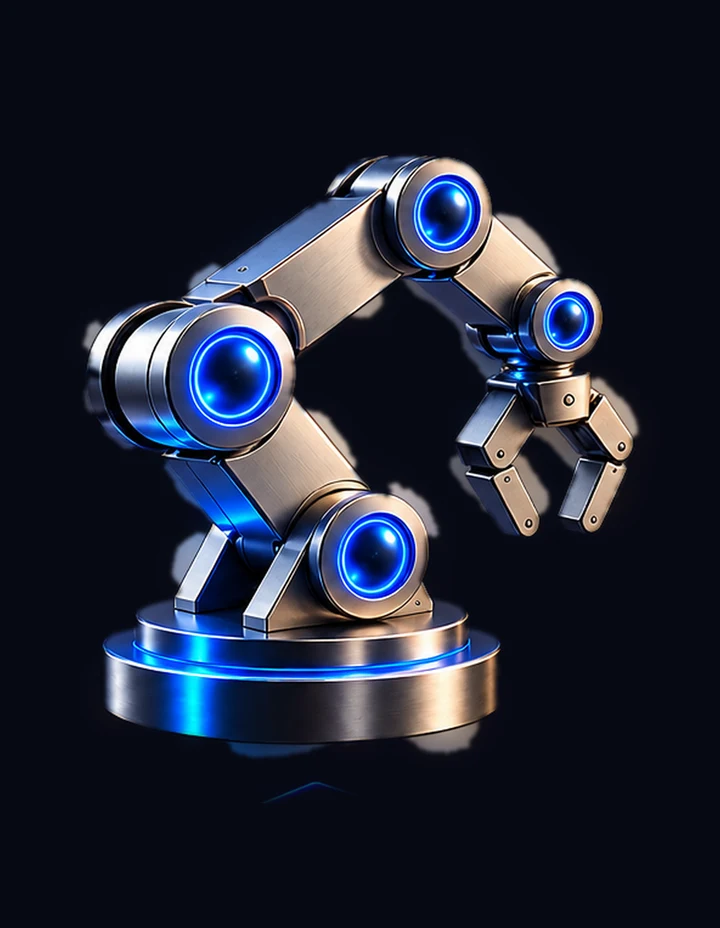
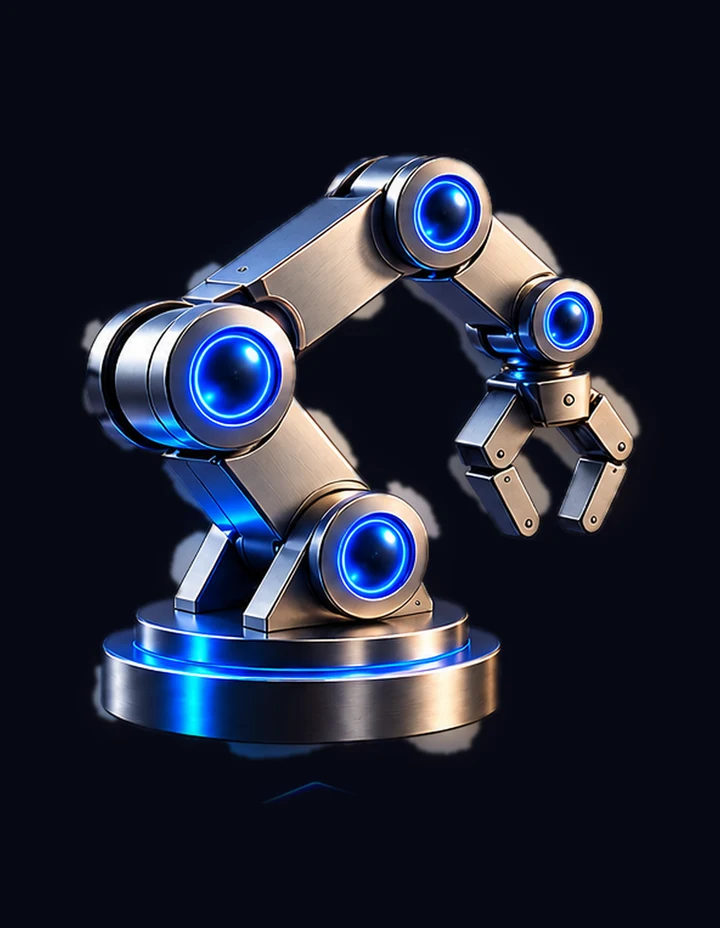
TEST: blended category pictures keep gray book pages and silver edges
Claude-Session: https://claude.ai/code/session_01Ak37PopmRyxdyWRVkbaa1v

diff --git a/marketplace-usi-slider.html b/marketplace-usi-slider.html
@@ -30,8 +30,8 @@ let products=[
  ["email","Agent","Email Writer","Drafts clear, polite, ready-to-send emails for any situation."],
  ["quiz","Agent","Quiz Master","Runs a multiple-choice quiz on any topic and keeps your score."]
 ].map(([a,type,title,desc])=>({id:'house'+a,type,title,desc,price:0,creator:'Use Superintelligence',url:SITE+'/agents/'+a,house:true,featured:false,image:'marketplace/astral-v2/'+title.toLowerCase().replace(/[^a-z0-9]+/g,'-')+'.webp',gets:HOUSE_GETS}));
-products.push({id:'houseprompts-work',type:'Prompt pack',title:'AI at Work Prompt Pack',desc:'25 copy-ready prompts for email, meetings, planning, research and customers. Works with any AI chat.',price:0,creator:'Use Superintelligence',url:'https://xyxailab-max.github.io/superintelligence-3d-test/prompts/ai-at-work.html',house:true,featured:false,image:'marketplace/categories/prompts-templates.webp?v=8',gets:['Free, no sign-up','25 prompts in 5 groups','One-tap copy']});
-products.push({id:'housecourse-work',type:'Course',title:'AI at Work in 5 Lessons',desc:'A free beginner mini-course: 5 short lessons, each with a 5-minute practice task. About 30 minutes total.',price:0,creator:'Use Superintelligence',url:'https://xyxailab-max.github.io/superintelligence-3d-test/courses/ai-at-work.html',house:true,featured:false,image:'marketplace/categories/courses.webp?v=8',gets:['Free, no sign-up','5 lessons, about 30 minutes','Practice task in every lesson']});
+products.push({id:'houseprompts-work',type:'Prompt pack',title:'AI at Work Prompt Pack',desc:'25 copy-ready prompts for email, meetings, planning, research and customers. Works with any AI chat.',price:0,creator:'Use Superintelligence',url:'https://xyxailab-max.github.io/superintelligence-3d-test/prompts/ai-at-work.html',house:true,featured:false,image:'marketplace/categories/prompts-templates.webp?v=9',gets:['Free, no sign-up','25 prompts in 5 groups','One-tap copy']});
+products.push({id:'housecourse-work',type:'Course',title:'AI at Work in 5 Lessons',desc:'A free beginner mini-course: 5 short lessons, each with a 5-minute practice task. About 30 minutes total.',price:0,creator:'Use Superintelligence',url:'https://xyxailab-max.github.io/superintelligence-3d-test/courses/ai-at-work.html',house:true,featured:false,image:'marketplace/categories/courses.webp?v=9',gets:['Free, no sign-up','5 lessons, about 30 minutes','Practice task in every lesson']});
 const TYPES=["All","Featured","Free","Agent","Course","Prompt pack","Template","Automation","Tool"];
 const grid=document.getElementById('grid'),dock=document.getElementById('dock'),filter=document.getElementById('filter'),search=document.getElementById('search'),detail=document.getElementById('detail');
 function esc(s){return String(s).replace(/[&<>"']/g,c=>({'&':'&amp;','<':'&lt;','>':'&gt;','"':'&quot;',"'":'&#39;'}[c]))}
@@ -258,7 +258,7 @@ const C=[['AI Agents','AI Agents','ai-agents',['Agent']],['AI Tools & Automation
  ['Courses','Courses','courses',['Course']],['Software','Software','software',[]]];
 function build(){const cur=filter.value||'All',opts=[...filter.options].map(o=>o.value);
  dots.innerHTML=C.map(([full,short,file,types])=>{const t=types.find(x=>opts.includes(x)&&products.some(p=>p.type===x)),on=types.includes(cur),
-  img=`<img class="usi-im" src="marketplace/categories/${file}.webp?v=8" width="720" height="960" alt="" draggable="false">`;
+  img=`<img class="usi-im" src="marketplace/categories/${file}.webp?v=9" width="720" height="960" alt="" draggable="false">`;
   return t?`<button class="ic${on?' on':''}" type="button" data-cat="${esc(on?cur:t)}" aria-label="${esc('Show '+full)}" aria-pressed="${on}">${img}<span>${esc(short)}</span></button>`
    :`<span class="usi-off" role="img" aria-label="${esc(full)}, coming soon">${img}<span>${esc(short)}</span></span>`}).join('');
  dispatchEvent(new Event('resize'))}
